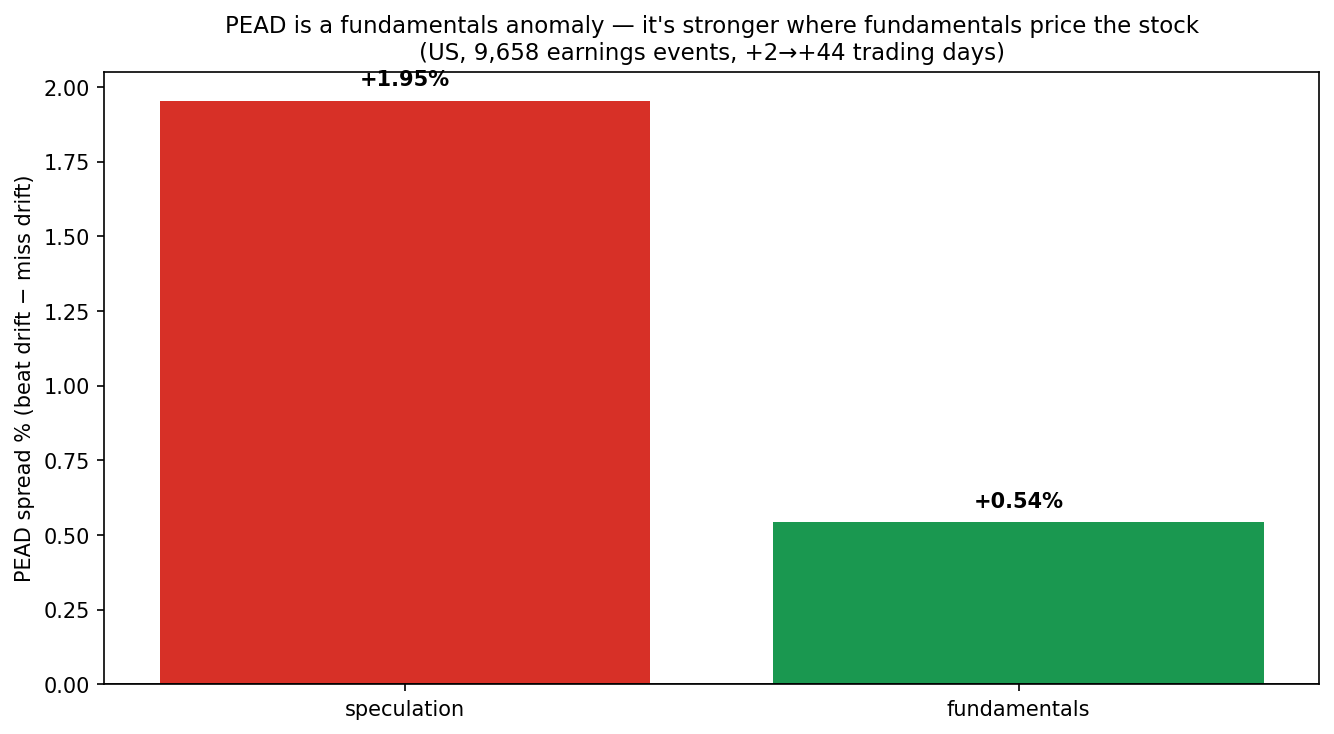
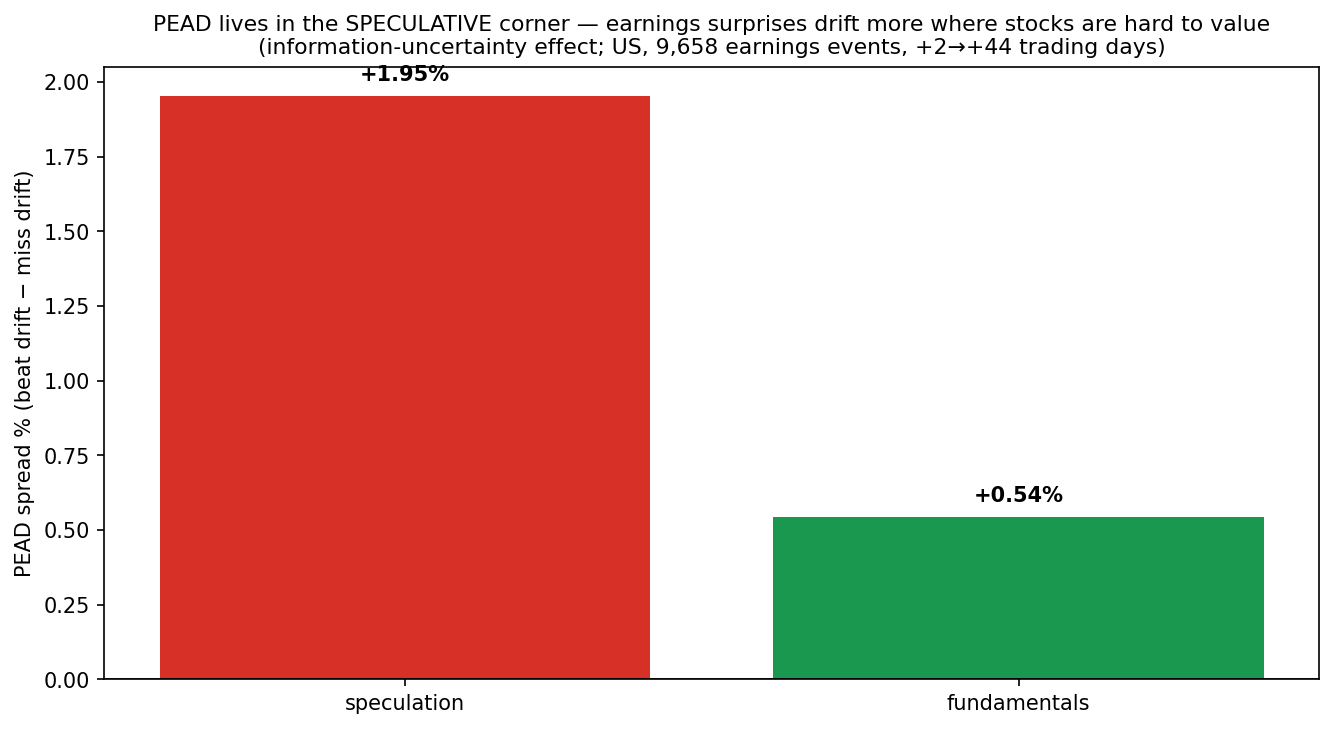
fix: PEAD chart title to match finding (speculative corner, not fundamentals)

diff --git a/market-pipeline/code/python_files/pead_fund_vs_spec.py b/market-pipeline/code/python_files/pead_fund_vs_spec.py
@@ -137,8 +137,9 @@ def main() -> int:
     ax.bar([b.replace("🟢 ", "").replace("🔴 ", "") for b in bars.index], bars.values,
            color=[colors.get(b, "#888") for b in bars.index])
     ax.axhline(0, c="k", lw=.8); ax.set_ylabel("PEAD spread % (beat drift − miss drift)")
-    ax.set_title("PEAD is a fundamentals anomaly — it's stronger where fundamentals price the stock\n"
-                 f"(US, {len(d):,} earnings events, +{ENTRY}→+{EXIT} trading days)", fontsize=11)
+    ax.set_title("PEAD lives in the SPECULATIVE corner — earnings surprises drift more where "
+                 "stocks are hard to value\n(information-uncertainty effect; US, "
+                 f"{len(d):,} earnings events, +{ENTRY}→+{EXIT} trading days)", fontsize=10.5)
     for i, v in enumerate(bars.values):
         ax.text(i, v + (0.05 if v >= 0 else -0.1), f"{v:+.2f}%", ha="center", fontsize=10, fontweight="bold")
     plt.tight_layout(); plt.savefig(REP / "pead_fund_vs_spec.png", dpi=150, bbox_inches="tight")
